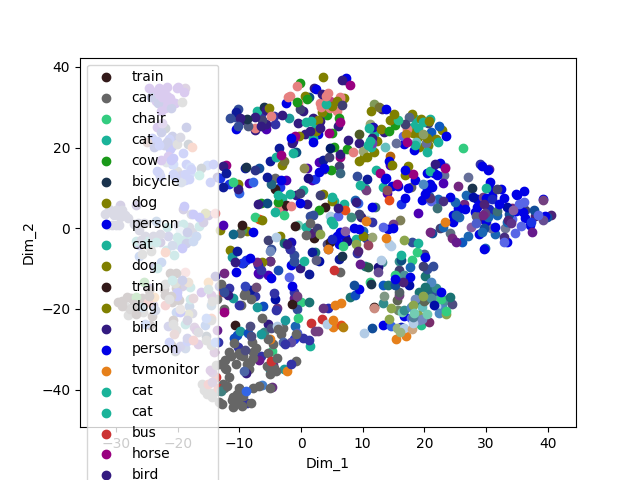
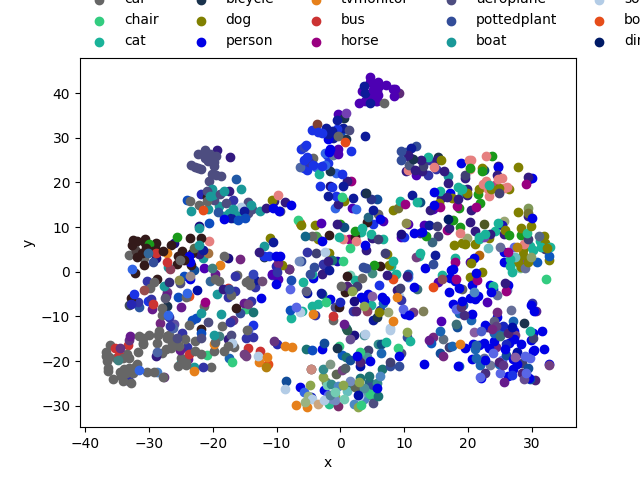
Fix bugs

diff --git a/t_SNE.py b/t_SNE.py
@@ -47,13 +47,13 @@ def main():
     print('Average_Test_Loss: ', avg_test_loss)
 
     intermediate_output = torch.squeeze(fc7_output[0])
-    NUM_IMAGES_TO_MAKE_TSNE = 11
+    NUM_IMAGES_TO_MAKE_TSNE = 1000
     assert(int(args.test_batch_size)==NUM_IMAGES_TO_MAKE_TSNE)
 
     dataiter = iter(test_loader)
     images,labels,wgt = dataiter.next()
 
-    assert(labels.shape[0]==11)   #Make sure that the test batch size is 1000
+    assert(labels.shape[0]==NUM_IMAGES_TO_MAKE_TSNE)   #Make sure that the test batch size is 1000
 
     #Add t-SNE code here
     intermediate_output = intermediate_output.cpu().numpy()
